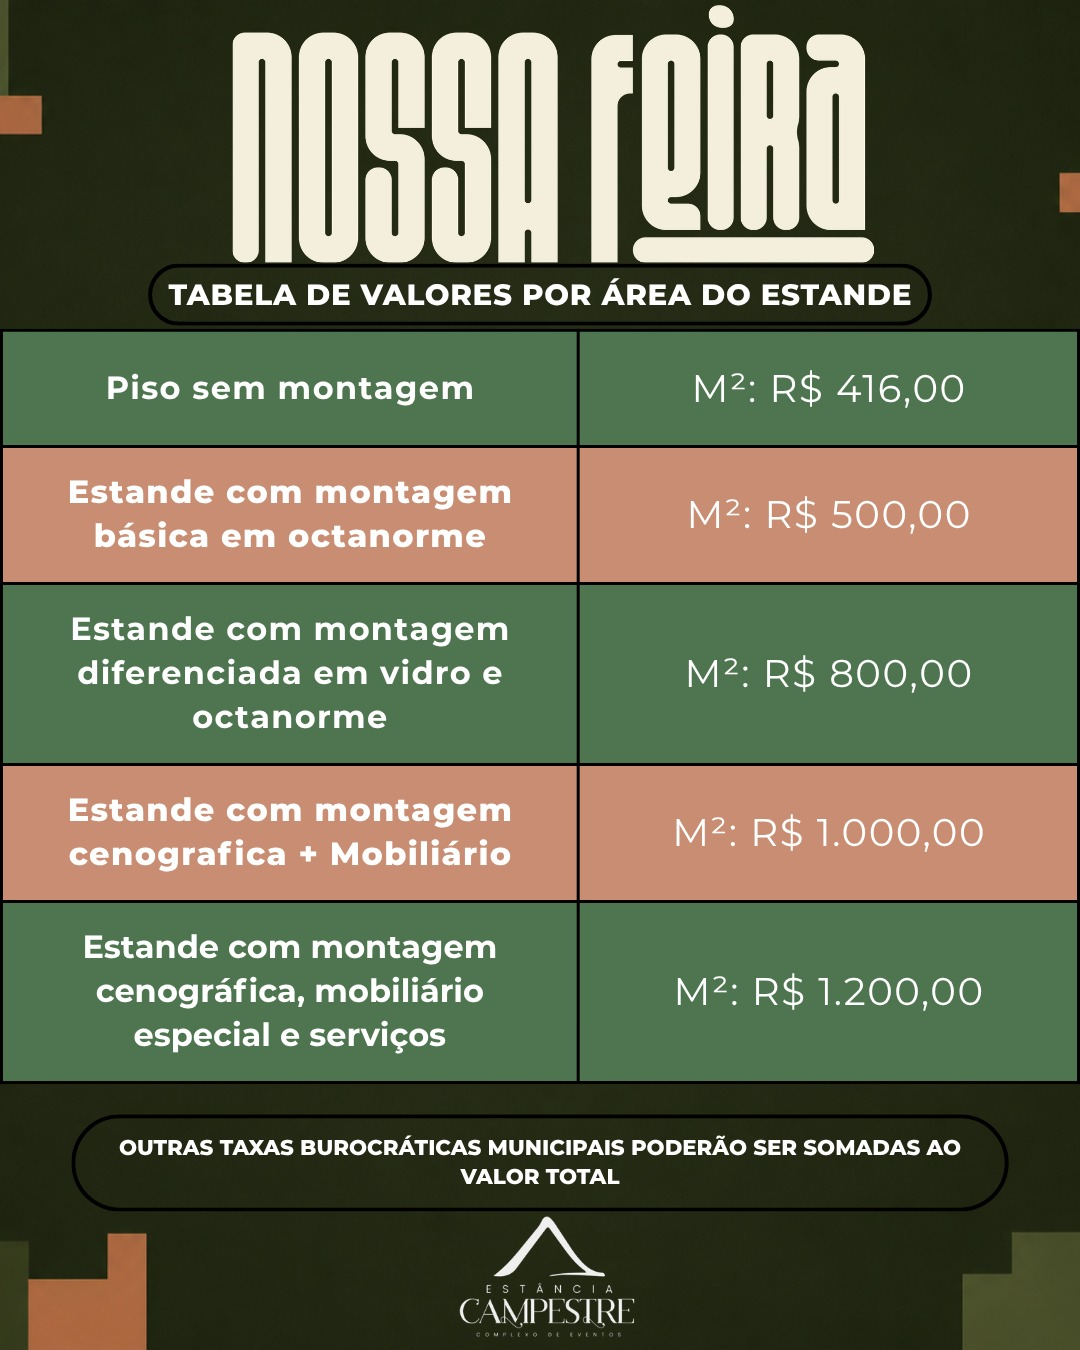
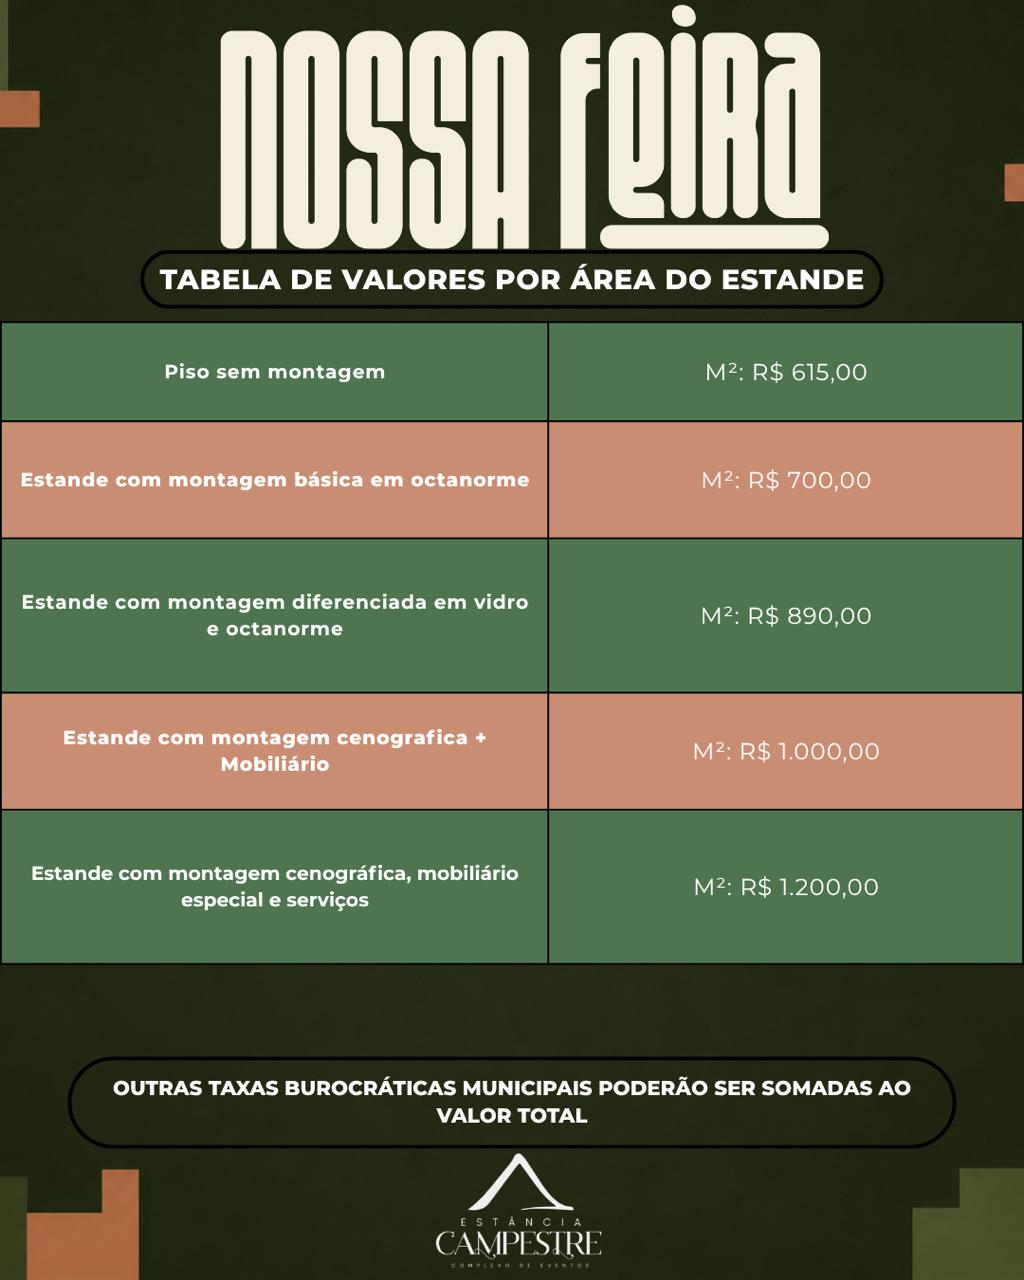
Update pricing details in Home component for Lotes section and replace outdated image file.

Changed region(s): [[0.0, 0.2188, 1.0, 0.8125]]

diff --git a/src/pages/Home/index.tsx b/src/pages/Home/index.tsx
@@ -477,17 +477,17 @@ function Home() {
             <LotesTable>
               <LoteRow $variant="dark">
                 <LoteLabel>Piso sem montagem</LoteLabel>
-                <LotePrice>M²: R$ 416,00</LotePrice>
+                <LotePrice>M²: R$ 615,00</LotePrice>
               </LoteRow>
               <LoteRow $variant="light">
                 <LoteLabel>Estande com montagem básica em octanorme</LoteLabel>
-                <LotePrice>M²: R$ 500,00</LotePrice>
+                <LotePrice>M²: R$ 700,00</LotePrice>
               </LoteRow>
               <LoteRow $variant="dark">
                 <LoteLabel>
                   Estande com montagem diferenciada em vidro e octanorme
                 </LoteLabel>
-                <LotePrice>M²: R$ 800,00</LotePrice>
+                <LotePrice>M²: R$ 890,00</LotePrice>
               </LoteRow>
               <LoteRow $variant="light">
                 <LoteLabel>Estande com montagem cenográfica + Mobiliário</LoteLabel>
